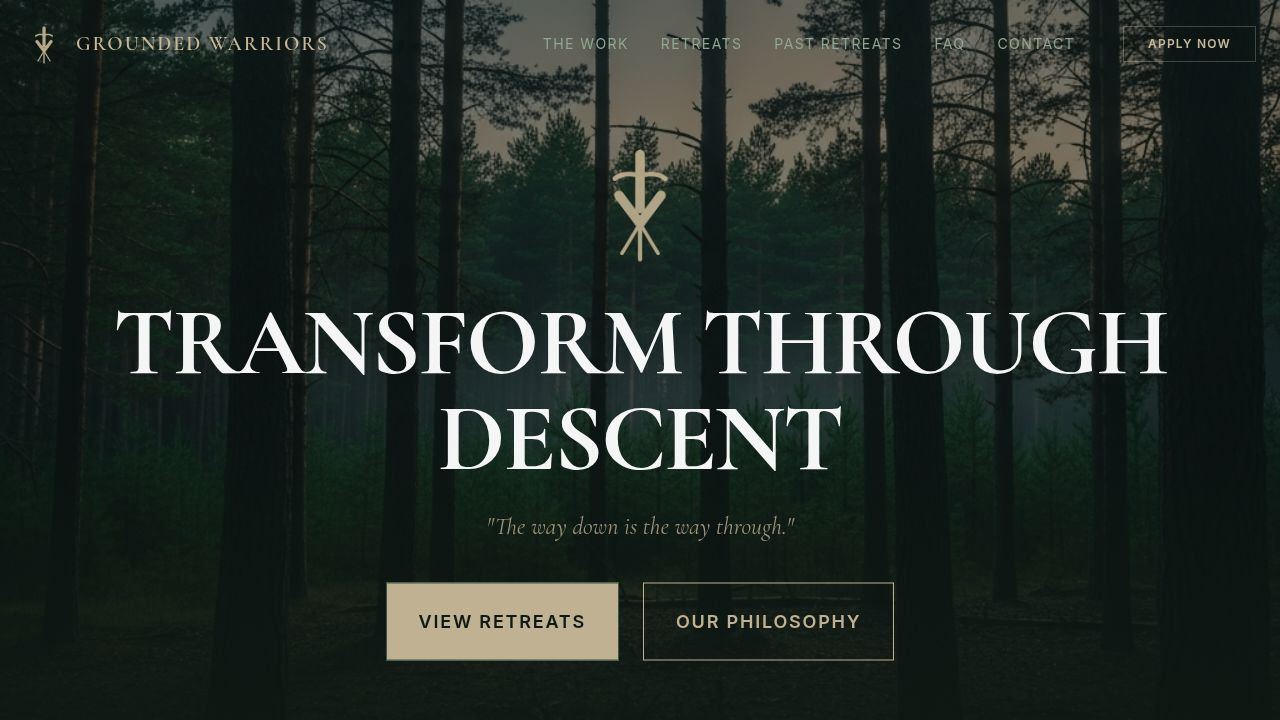
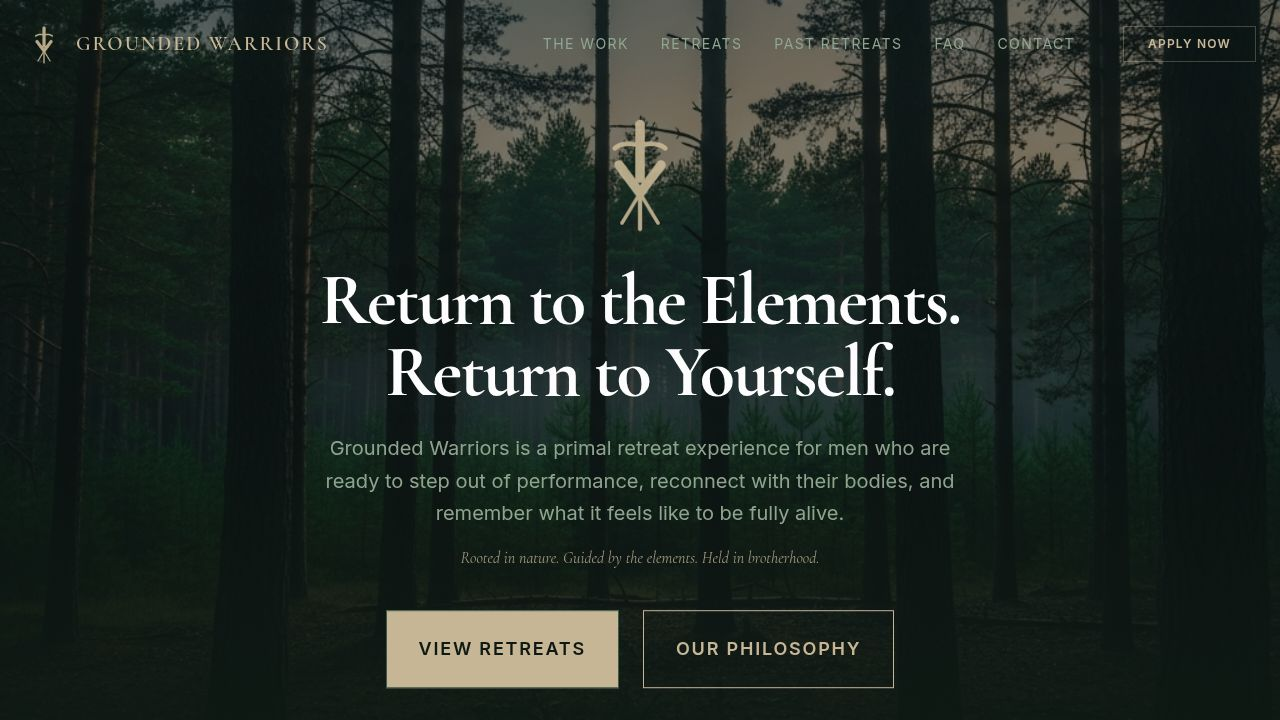
Update website content with new philosophy and elements sections
Rewrite client/src/pages/home.tsx and client/src/components/layout.tsx to incorporate new copy for the hero, philosophy, elements, experience, guides, newsletter, and footer sections. Update icon imports in `home.tsx`.

Replit-Commit-Author: Agent
Replit-Commit-Session-Id: 3b11835e-a448-4b43-98cc-5f2e266cdaf2
Replit-Commit-Checkpoint-Type: full_checkpoint
Replit-Commit-Event-Id: 1a11a63f-ccaf-4006-9062-7938ffc575bb
Replit-Commit-Screenshot-Url: https://storage.googleapis.com/screenshot-production-us-central1/96d1a123-5730-4971-8300-b20052ef610e/3b11835e-a448-4b43-98cc-5f2e266cdaf2/2gPREEG
Replit-Helium-Checkpoint-Created: true

Changed region(s): [[0.0938, 0.1833, 0.9062, 0.6722], [0.2812, 0.7028, 0.6562, 0.9778], [0.5312, 0.825, 0.6875, 0.9167]]

diff --git a/client/src/pages/home.tsx b/client/src/pages/home.tsx
@@ -3,7 +3,7 @@ import { images, testimonials, retreats, facilitators } from "@/lib/data";
 import { Button } from "@/components/ui/button";
 import { motion, useScroll, useTransform } from "framer-motion";
 import { Link } from "wouter";
-import { ArrowDown, Flame, Droplets, Wind, Users, ChevronLeft, ChevronRight, Quote } from "lucide-react";
+import { ArrowDown, Flame, Droplets, Wind, Mountain, ChevronLeft, ChevronRight, Quote } from "lucide-react";
 import { useState, useEffect, useRef } from "react";
 import { Countdown } from "@/components/countdown";
 import { NewsletterSignup } from "@/components/newsletter";
@@ -165,11 +165,14 @@ export default function Home() {
             transition={{ duration: 1, delay: 0.2 }}
           >
             <img src={images.logo} alt="Logo" className="w-24 h-auto mx-auto mb-8 opacity-90" />
-            <h1 className="font-serif text-4xl md:text-7xl lg:text-8xl font-bold text-white mb-6 tracking-tight uppercase">
-              Transform Through <br className="hidden md:block" /> Descent
+            <h1 className="font-serif text-4xl md:text-6xl lg:text-7xl font-bold text-white mb-6 tracking-tight">
+              Return to the Elements.<br />Return to Yourself.
             </h1>
-            <p className="text-xl md:text-2xl text-primary/80 font-serif italic mb-10 max-w-2xl mx-auto">
-              "The way down is the way through."
+            <p className="text-lg md:text-xl text-muted-foreground mb-4 max-w-2xl mx-auto leading-relaxed">
+              Grounded Warriors is a primal retreat experience for men who are ready to step out of performance, reconnect with their bodies, and remember what it feels like to be fully alive.
+            </p>
+            <p className="text-primary/80 font-serif italic mb-10 max-w-xl mx-auto">
+              Rooted in nature. Guided by the elements. Held in brotherhood.
             </p>
             <div className="flex flex-col sm:flex-row gap-6 justify-center">
               <Link href="/retreats">
@@ -196,25 +199,40 @@ export default function Home() {
         </motion.div>
       </section>
 
-      {/* Mission Intro */}
+      {/* Our Philosophy */}
       <section className="py-24 md:py-32 bg-background relative">
         <div className="container px-6 max-w-4xl mx-auto text-center">
           <motion.div {...fadeIn}>
-            <h2 className="text-primary text-sm uppercase tracking-[0.3em] mb-6 font-semibold">The Mission</h2>
-            <p className="font-serif text-3xl md:text-4xl leading-relaxed text-white mb-8">
-              We are not a bootcamp. We are not here to fix you. <br/>
-              We are a space for men to stop performing, drop into their bodies, and reconnect with the ancient wisdom of the earth.
+            <h2 className="text-primary text-sm uppercase tracking-[0.3em] mb-6 font-semibold">Our Philosophy</h2>
+            <h3 className="font-serif text-3xl md:text-4xl leading-relaxed text-white mb-8">
+              This Is Not About Fixing You
+            </h3>
+            <p className="text-muted-foreground text-lg leading-loose max-w-3xl mx-auto mb-6">
+              This is not a bootcamp. This is not therapy. This is not about self-improvement or becoming someone else.
             </p>
-            <p className="text-muted-foreground text-lg leading-loose max-w-2xl mx-auto">
-              In a world that demands constant ascent—climbing ladders, building empires, achieving more—we offer the counter-intuitive path: descent. Down into the silence. Down into the wound. Down into the grounded strength that has always been waiting for you.
+            <p className="text-muted-foreground text-lg leading-loose max-w-3xl mx-auto mb-6">
+              Grounded Warriors exists to create space for men to slow down, drop into the body, and reconnect with what modern life quietly strips away — presence, truth, and grounded strength.
+            </p>
+            <p className="text-muted-foreground text-lg leading-loose max-w-3xl mx-auto mb-6">
+              In a world built on constant acceleration, noise, and pressure, this work offers something different: <span className="text-primary italic">a return.</span>
+            </p>
+            <p className="font-serif text-xl text-white/90 max-w-2xl mx-auto">
+              A return to the body. A return to nature. A return to what is real.
             </p>
           </motion.div>
         </div>
       </section>
 
-      {/* The Elements */}
+      {/* The Work - Elements */}
       <section className="py-24 bg-card border-y border-white/5">
         <div className="container px-6 mx-auto">
+          <motion.div {...fadeIn} className="text-center mb-16">
+            <h2 className="text-primary text-sm uppercase tracking-[0.3em] mb-4 font-semibold">The Work</h2>
+            <h3 className="font-serif text-3xl md:text-4xl text-white mb-4">Guided by the Elements</h3>
+            <p className="text-muted-foreground max-w-2xl mx-auto">
+              The retreats are simple, ancient, and intentional. Each experience is shaped by the four elements — not as concepts, but as lived teachers.
+            </p>
+          </motion.div>
           <motion.div 
             variants={staggerContainer}
             initial="hidden"
@@ -223,10 +241,10 @@ export default function Home() {
             className="grid grid-cols-2 md:grid-cols-4 gap-6 md:gap-12"
           >
             {[
-              { icon: Flame, title: "Fire", desc: "Ceremonial spaces to burn what no longer serves you." },
-              { icon: Droplets, title: "Water", desc: "Cold immersion to awaken the nervous system and build resilience." },
-              { icon: Wind, title: "Air", desc: "Breathwork practices to release tension and expand awareness." },
-              { icon: Users, title: "Brotherhood", desc: "A circle of men committed to truth, without posturing." }
+              { icon: Flame, title: "Fire", desc: "Ceremony, truth, and release. Fire is where men burn what no longer serves — old stories, armour, and patterns that keep them disconnected." },
+              { icon: Droplets, title: "Water", desc: "Cold immersion and nervous system awakening. Water teaches resilience, breath, and trust in the body under pressure." },
+              { icon: Wind, title: "Air", desc: "Breathwork and conscious respiration. Air opens awareness, releases stored tension, and reconnects men to emotion, clarity, and inner space." },
+              { icon: Mountain, title: "Earth", desc: "Nature, movement, and stillness. Earth grounds the work — reminding men they belong to something older, steadier, and wiser than the mind." }
             ].map((el, i) => (
               <motion.div 
                 key={i} 
@@ -241,6 +259,9 @@ export default function Home() {
               </motion.div>
             ))}
           </motion.div>
+          <motion.p {...fadeIn} className="text-center text-muted-foreground italic mt-12 max-w-xl mx-auto">
+            Brotherhood is not forced here. It emerges naturally when men walk through the elements together.
+          </motion.p>
         </div>
       </section>
 
@@ -258,9 +279,9 @@ export default function Home() {
         <div className="container px-6 mx-auto">
           <motion.div {...fadeIn} className="text-center mb-16">
             <h2 className="text-primary text-sm uppercase tracking-[0.3em] mb-4 font-semibold">Experience</h2>
-            <h3 className="font-serif text-4xl md:text-5xl text-white mb-4">See the Descent</h3>
+            <h3 className="font-serif text-4xl md:text-5xl text-white mb-4">See the Work</h3>
             <p className="text-muted-foreground max-w-2xl mx-auto">
-              Words can only say so much. Watch what happens when men gather in the wild.
+              Words can only say so much. This is what happens when men gather on the land.
             </p>
           </motion.div>
 
@@ -287,7 +308,13 @@ export default function Home() {
         <div className="container px-6 mx-auto">
           <motion.div {...fadeIn} className="text-center mb-16">
             <h2 className="text-primary text-sm uppercase tracking-[0.3em] mb-4 font-semibold">Your Guides</h2>
-            <h3 className="font-serif text-4xl md:text-5xl text-white">Meet the Facilitators</h3>
+            <h3 className="font-serif text-4xl md:text-5xl text-white mb-4">Holding the Container</h3>
+            <p className="text-muted-foreground max-w-3xl mx-auto mb-4">
+              Grounded Warriors is co-facilitated by men who walk this path themselves.
+            </p>
+            <p className="text-muted-foreground max-w-3xl mx-auto">
+              The role of the guides is not to lead from above, but to hold a grounded, respectful container where men can meet themselves honestly — without pressure, posturing, or performance. Leadership here is quiet, embodied, and present.
+            </p>
           </motion.div>
 
           <div className="grid grid-cols-1 md:grid-cols-2 gap-8 max-w-4xl mx-auto">
@@ -341,8 +368,11 @@ export default function Home() {
         <div className="container px-6 mx-auto">
           <div className="flex flex-col md:flex-row justify-between items-end mb-16 gap-6">
             <div>
-              <h2 className="text-primary text-sm uppercase tracking-[0.3em] mb-4 font-semibold">Upcoming</h2>
-              <h3 className="font-serif text-4xl md:text-5xl text-white">Join the Circle</h3>
+              <h2 className="text-primary text-sm uppercase tracking-[0.3em] mb-4 font-semibold">Retreats</h2>
+              <h3 className="font-serif text-4xl md:text-5xl text-white">Upcoming Gatherings</h3>
+              <p className="text-muted-foreground mt-4 max-w-lg">
+                Each retreat is intentionally small and held on the land. The work deepens through simplicity, presence, and shared experience.
+              </p>
             </div>
             <Link href="/retreats">
               <Button variant="link" className="text-primary hover:text-white p-0 text-lg group">
@@ -388,10 +418,13 @@ export default function Home() {
       <section className="py-24 bg-card border-t border-white/5">
         <div className="container px-6 mx-auto text-center">
           <motion.div {...fadeIn}>
-            <h2 className="text-primary text-sm uppercase tracking-[0.3em] mb-4 font-semibold">Stay Connected</h2>
+            <h2 className="text-primary text-sm uppercase tracking-[0.3em] mb-4 font-semibold">Community</h2>
             <h3 className="font-serif text-3xl md:text-4xl text-white mb-4">Join the Circle</h3>
+            <p className="text-muted-foreground max-w-2xl mx-auto mb-4">
+              Grounded Warriors is more than a series of retreats. It is a growing community of men committed to living with presence, integrity, and grounded strength.
+            </p>
             <p className="text-muted-foreground max-w-xl mx-auto mb-8">
-              Receive updates on upcoming retreats, reflections from the fire, and exclusive content for our community.
+              Receive updates on upcoming retreats, reflections from the fire, and community offerings.
             </p>
             <NewsletterSignup />
           </motion.div>

diff --git a/client/src/components/layout.tsx b/client/src/components/layout.tsx
@@ -134,9 +134,12 @@ export function Footer() {
           className="h-24 w-24 mx-auto mb-8 opacity-80 hover:opacity-100 transition-opacity invert" 
         />
         
-        <h3 className="font-serif text-2xl md:text-3xl text-primary mb-8 tracking-wide">
-          "The way down is the way through."
+        <h3 className="font-serif text-2xl md:text-3xl text-white mb-2 tracking-wide">
+          Grounded Warriors
         </h3>
+        <p className="text-primary italic text-lg mb-8">
+          Return to the Elements. Return to Yourself.
+        </p>
 
         <div className="flex flex-col md:flex-row justify-center items-center gap-8 mb-12 text-muted-foreground text-sm tracking-widest uppercase">
           <Link href="/about"><span className="hover:text-white transition-colors cursor-pointer block py-2 px-2">The Work</span></Link>
